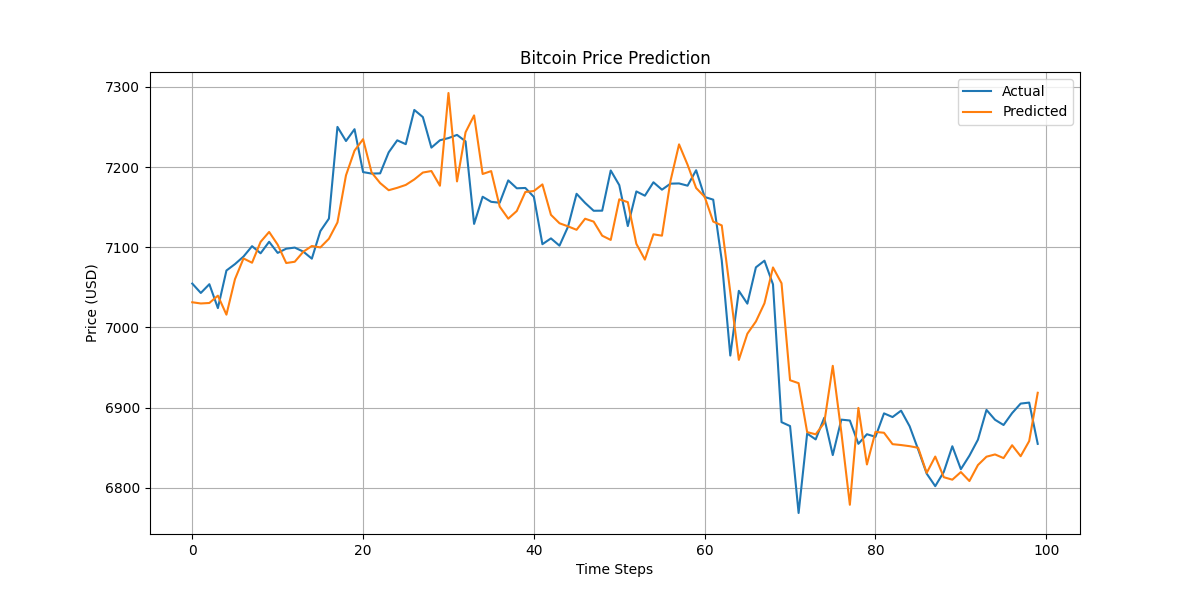
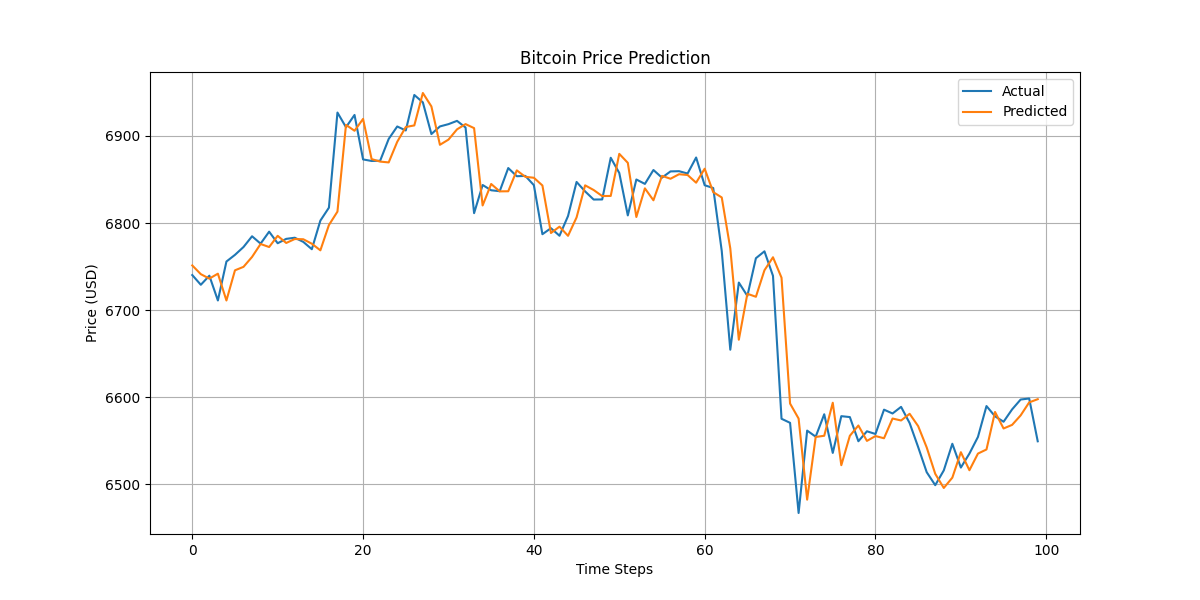
Enhances model evaluation by adding target column parameter and updating metrics calculations for actual prices

diff --git a/supervised_learning/time_series/forecast_btc.py b/supervised_learning/time_series/forecast_btc.py
@@ -186,7 +186,7 @@ def train_model(model, train_dataset, val_dataset, epochs=50):
     return history
 
 
-def evaluate_model(model, X_test, y_test, scaler, feature_cols):
+def evaluate_model(model, X_test, y_test, scaler, feature_cols, target_col):
     """
     Evaluates the model on test data.
     
@@ -196,6 +196,7 @@ def evaluate_model(model, X_test, y_test, scaler, feature_cols):
         y_test: Test target values
         scaler: Scaler used to normalize the data
         feature_cols: Feature column names
+        target_col: Target column name for evaluation
         
     Returns:
         Evaluation metrics
@@ -208,45 +209,78 @@ def evaluate_model(model, X_test, y_test, scaler, feature_cols):
     rmse = np.sqrt(mse)
     mae = np.mean(np.abs(y_pred.flatten() - y_test))
     
-    print(f"Scaled MSE: {mse:.6f}")
-    print(f"Scaled RMSE: {rmse:.6f}")
-    print(f"Scaled MAE: {mae:.6f}")
+    print(f"Scaled MSE (on log returns): {mse:.6f}")
+    print(f"Scaled RMSE (on log returns): {rmse:.6f}")
+    print(f"Scaled MAE (on log returns): {mae:.6f}")
     
     # Inverse transform predictions and actual values
     # We need to create dummy arrays with all features
+    target_idx = feature_cols.index(target_col)
     close_idx = feature_cols.index('Close')
     dummy_array = np.zeros((len(y_test), len(feature_cols)))
     
     # Set the Close column values
-    dummy_array[:, close_idx] = y_test
+    dummy_array[:, target_idx] = y_test
     y_test_dummy = dummy_array.copy()
     
-    dummy_array[:, close_idx] = y_pred.flatten()
+    dummy_array[:, target_idx] = y_pred.flatten()
     y_pred_dummy = dummy_array.copy()
     
-    # Inverse transform
-    y_test_inv = scaler.inverse_transform(y_test_dummy)[:, close_idx]
-    y_pred_inv = scaler.inverse_transform(y_pred_dummy)[:, close_idx]
+    # Inverse transform to get original log returns
+    y_test_log_ret = scaler.inverse_transform(y_test_dummy)[:, target_idx]
+    y_pred_log_ret = scaler.inverse_transform(y_pred_dummy)[:, target_idx]
+    
+    # Convert from log returns to actual prices
+    last_price = None
+    last_scaled_close = X_test[0, -1, close_idx]
+    dummy = np.zeros((1, len(feature_cols)))
+    dummy[0, close_idx] = last_scaled_close
+    last_price = scaler.inverse_transform(dummy)[0, close_idx]
+    
+    print(f"Starting price for conversion: ${last_price:.2f}")
+    
+    # Convert log returns to actual prices
+    y_test_prices = []
+    y_pred_prices = []
+    
+    current_price = last_price
+    for i in range(len(y_test_log_ret)):
+        # Convert actual log returns to prices
+        next_true_price = current_price * np.exp(y_test_log_ret[i])
+        y_test_prices.append(next_true_price)
+        
+        # Convert predicted log returns to prices
+        next_pred_price = current_price * np.exp(y_pred_log_ret[i])
+        y_pred_prices.append(next_pred_price)
+        
+        # Use true price for next prediction to prevent error accumulation
+        current_price = next_true_price
     
     # Calculate metrics on original scale
-    mse_inv = np.mean((y_pred_inv - y_test_inv) ** 2)
-    rmse_inv = np.sqrt(mse_inv)
-    mae_inv = np.mean(np.abs(y_pred_inv - y_test_inv))
+    price_mse = np.mean((np.array(y_pred_prices) - np.array(y_test_prices)) ** 2)
+    price_rmse = np.sqrt(price_mse)
+    price_mae = np.mean(np.abs(np.array(y_pred_prices) - np.array(y_test_prices)))
     
-    print(f"Original MSE: {mse_inv:.2f}")
-    print(f"Original RMSE: {rmse_inv:.2f}")
-    print(f"Original MAE: {mae_inv:.2f}")
+    print("\nMetrics on actual prices:")
+    print(f"MSE: {price_mse:.2f}")
+    print(f"RMSE: {price_rmse:.2f}")
+    print(f"MAE: {price_mae:.2f}")
+    
+    # Calculate percentage metrics
+    mape = np.mean(np.abs((np.array(y_test_prices) - np.array(y_pred_prices)) / np.array(y_test_prices))) * 100
+    print(f"MAPE: {mape:.2f}%")
     
     # Visualize predictions
-    plot_predictions(y_test_inv, y_pred_inv)
+    plot_predictions(y_test_prices, y_pred_prices)
     
     return {
         'mse': mse,
         'rmse': rmse,
         'mae': mae,
-        'mse_inv': mse_inv,
-        'rmse_inv': rmse_inv,
-        'mae_inv': mae_inv
+        'price_mse': price_mse,
+        'price_rmse': price_rmse,
+        'price_mae': price_mae,
+        'mape': mape
     }
 
 
@@ -327,6 +361,10 @@ def main():
     # Load preprocessed data
     X, y, scaler, feature_cols = load_preprocessed_data()
     
+    # Define target column
+    target_col = 'Close_log_ret'
+    print(f"Using target column: {target_col} for evaluation")
+    
     # Split data
     (X_train, y_train), (X_val, y_val), (X_test, y_test) = split_data(X, y)
     
@@ -353,7 +391,7 @@ def main():
     plot_training_history(history)
     
     # Evaluate model
-    evaluate_model(model, X_test, y_test, scaler, feature_cols)
+    evaluate_model(model, X_test, y_test, scaler, feature_cols, target_col=target_col)
     
     # Save model
     model.save('btc_forecast_model.h5')
